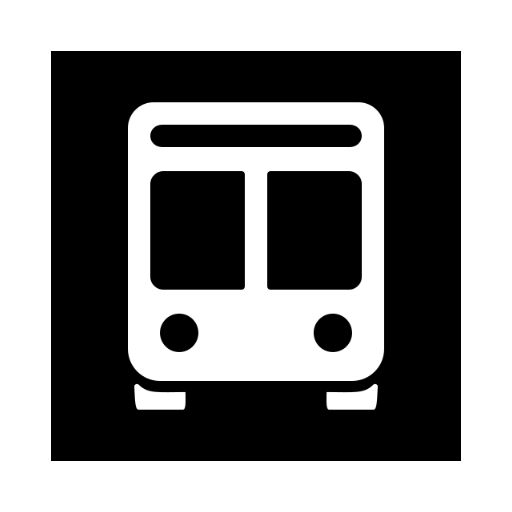
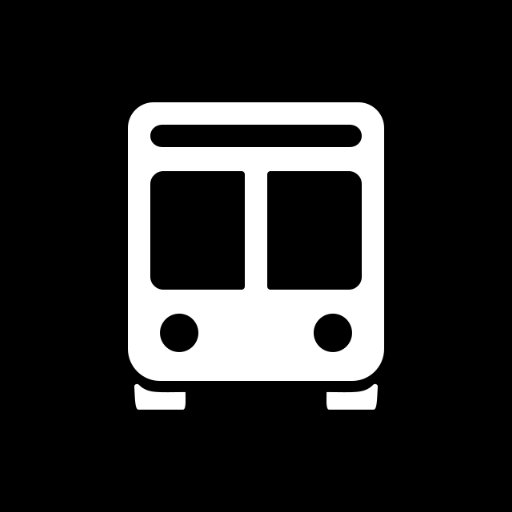
Add black background on splashscreen

diff --git a/public/index.html b/public/index.html
@@ -36,6 +36,7 @@
     <link rel="apple-touch-startup-image" href="apple-splash-640-1136.png" media="(device-width: 320px) and (device-height: 568px) and (-webkit-device-pixel-ratio: 2) and (orientation: portrait)">
     <link rel="apple-touch-startup-image" href="apple-splash-1136-640.png" media="(device-width: 320px) and (device-height: 568px) and (-webkit-device-pixel-ratio: 2) and (orientation: landscape)">
 
+    <!--Dark mode-->
     <link rel="apple-touch-startup-image" href="apple-splash-dark-2048-2732.png" media="(prefers-color-scheme: dark) and (device-width: 1024px) and (device-height: 1366px) and (-webkit-device-pixel-ratio: 2) and (orientation: portrait)">
     <link rel="apple-touch-startup-image" href="apple-splash-dark-2732-2048.png" media="(prefers-color-scheme: dark) and (device-width: 1024px) and (device-height: 1366px) and (-webkit-device-pixel-ratio: 2) and (orientation: landscape)">
     <link rel="apple-touch-startup-image" href="apple-splash-dark-1668-2388.png" media="(prefers-color-scheme: dark) and (device-width: 834px) and (device-height: 1194px) and (-webkit-device-pixel-ratio: 2) and (orientation: portrait)">
@@ -56,7 +57,7 @@
     <link rel="apple-touch-startup-image" href="apple-splash-dark-1334-750.png" media="(prefers-color-scheme: dark) and (device-width: 375px) and (device-height: 667px) and (-webkit-device-pixel-ratio: 2) and (orientation: landscape)">
     <link rel="apple-touch-startup-image" href="apple-splash-dark-640-1136.png" media="(prefers-color-scheme: dark) and (device-width: 320px) and (device-height: 568px) and (-webkit-device-pixel-ratio: 2) and (orientation: portrait)">
     <link rel="apple-touch-startup-image" href="apple-splash-dark-1136-640.png" media="(prefers-color-scheme: dark) and (device-width: 320px) and (device-height: 568px) and (-webkit-device-pixel-ratio: 2) and (orientation: landscape)">
-
+    <!--dark mode-->
     <!--
       manifest.json provides metadata used when your web app is installed on a
       user's mobile device or desktop. See https://developers.google.com/web/fundamentals/web-app-manifest/
@@ -71,7 +72,7 @@
       work correctly both with client-side routing and a non-root public URL.
       Learn how to configure a non-root public URL by running `npm run build`.
     -->
-    <title>React App</title>
+    <title>Noshitsherlock travel</title>
   </head>
   <body>
     <noscript>You need to enable JavaScript to run this app.</noscript>

diff --git a/src/index.js b/src/index.js
@@ -4,7 +4,7 @@ import './index.css';
 import App from './App';
 import * as serviceWorker from './serviceWorker';
 //import 'bootstrap/dist/css/bootstrap.css';
-import './dark-mode.css'
+import './dark-mode.css'; // comment this out, and take back bootstrap above to get back to default
 import './custom.css';
 // import './refresh.css';
 
